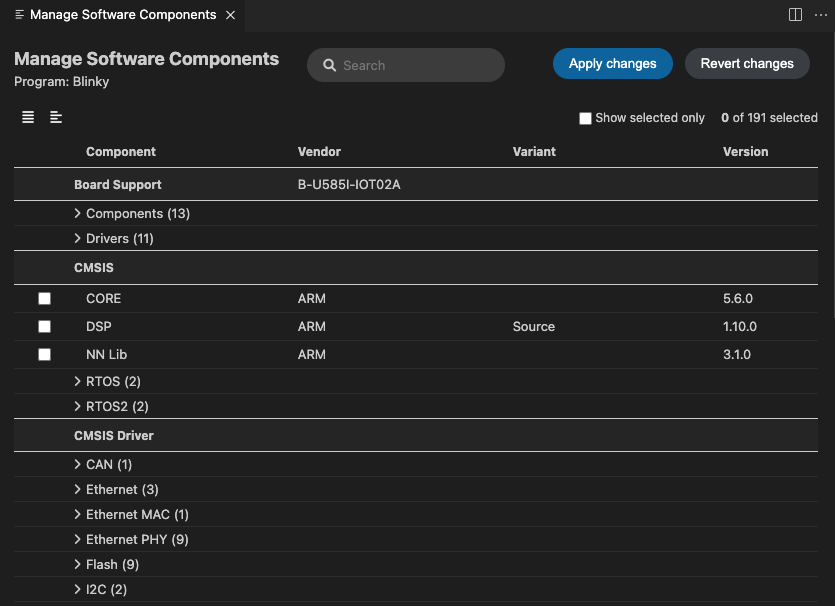
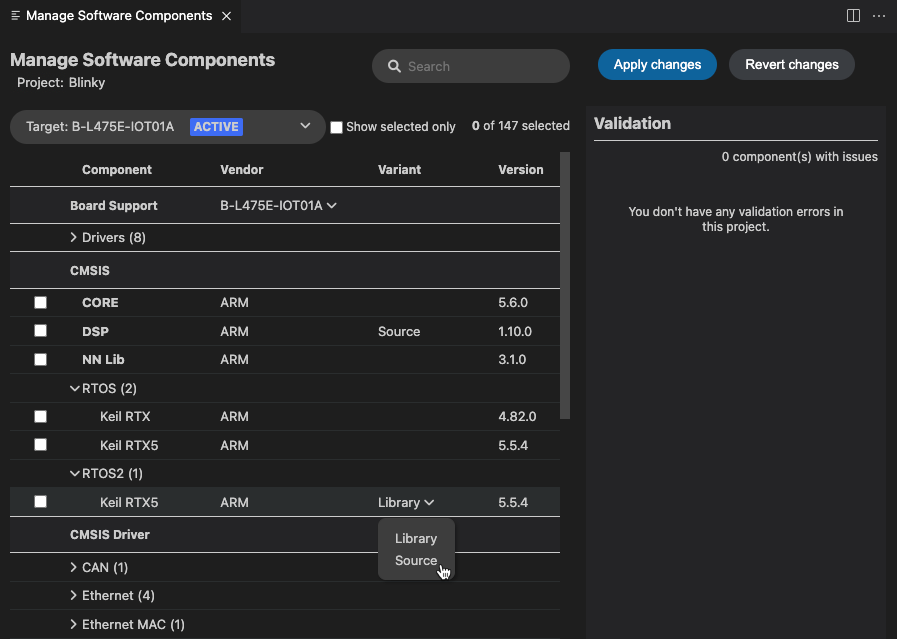
Update file(s) from Arm-Debug/vscode-cmsis-csolution

diff --git a/README.md b/README.md
@@ -309,7 +309,7 @@ Look at the csolution contexts.
 
 1. Go the **PROBLEMS** tab and check for errors.
 
-1. Right-click on the `.cprj` file corresponding to the context you selected and select **Build**.
+1. Right-click the `.cprj` file corresponding to the context you selected and select **Build**.
 
 1. Check the **TERMINAL** tab.
 
@@ -386,9 +386,9 @@ Add CMSIS components with the **Manage Software Components** view. When you add 
 
 **Note**: The **Manage Software Components** view is still under development. To get access to it, select the **Experimental Features** checkbox in the **CMSIS csolution** extension settings.
 
-The **Manage Software Components** view shows all the software components selected in the active CMSIS solution. From this view you can see all the component details (called attributes in the [Open-CMSIS-Pack documentation](https://open-cmsis-pack.github.io/Open-CMSIS-Pack-Spec/main/html/cp_PackTutorial.html#cp_SWComponents)).
+The **Manage Software Components** view shows all the software components selected in the active project of a CMSIS solution. From this view you can see all the component details (called attributes in the [Open-CMSIS-Pack documentation](https://open-cmsis-pack.github.io/Open-CMSIS-Pack-Spec/main/html/cp_PackTutorial.html#cp_SWComponents)).
 You can also:
-- Modify the software components to include in your solution.<!--and manage the dependencies between components-->
+- Modify the software components to include in the project and manage the dependencies between components for each build target  you have defined in your solution.
 - Build the solution using different combinations of pack and component versions, and different versions of a toolchain.
 
 ### Open the Manage Software Components view
@@ -397,19 +397,23 @@ You can also:
 
 1. Click the **CMSIS** icon ![CMSIS icon](./docs/images/cmsis-icon.png) in the Activity Bar to open the **Arm CMSIS csolution** extension.
 
+1. Check the active project selected in the **CONTEXT** panel.
+
 1. Hover over the **CONTEXT** label and click the **Manage software components** icon ![Manage software components](./docs/images/manage-sw-components-icon.png).
 
     The **Manage Software Components** view opens.
 
-By default, this displays the components that are available for use. If you select the **Show selected only** checkbox, only the components included in the active project display.
+By default, the view displays all the components that are available for use. If you select the **Show selected only** checkbox, only the components included in the active project display.
 
 ![The 'Manage Software Components' view showing all the components that are available for use](./docs/images/manage-sw-components-view.png)
+
+With the **Target** drop-down list, you can select components for the different build targets you have in your solution.
 
 The first column in the **Manage Software Components** view shows how many instances of the component are deployed in the project. If the component has a selected checkbox, one instance is deployed. If the checkbox is not selected, it is not deployed in the project. If a number input displays, multiple instances of this component can be deployed to a project.
 
 The CMSIS-Pack specification states that each software component should have the following attributes:
 
-- Component class (Cclass): A top-level component name. For example: **CMSIS**. For a full list of component classes, see [Software Component Cclasses](https://arm-software.github.io/CMSIS_5/Pack/html/cp_Packs.html#pack_Cclass).
+- Component class (Cclass): A top-level component name. For example: **CMSIS**. For a full list of component classes, see [Software Component Cclasses](https://arm-software.github.io/CMSIS_5/Pack/html/cp_Packs.html#pack_Cclass) in the Open-CMSIS-Pack documentation.
 - Component group (Cgroup): A component group name. For example: **CORE** for the **CMSIS** component class.
 - Component version (Cversion): The version number of the software component.
 
@@ -428,9 +432,19 @@ You can add components from all the packs available (it is not limited to the pa
 
 1. Make sure the **Show selected only** checkbox is not selected to display all the components available.
 
+1. Select a build target in the **Target** drop-down list. You can select components for the different build targets defined in the solution.
+
 1. Use the checkboxes to select or clear components as required. If a number input displays instead of a checkbox, it means that multiple instances of this component can be deployed to a project. For some components, you can also select a vendor, variant, or version.
 
-  The **Revert changes** button allows you to revert all your unsaved changes at once.
+1. From the **Validation** panel, you can manage the dependencies between components and solve validation issues.
+
+    Issues are highlighted in red and have an exclamation mark icon ![Issue icon](./docs/images/issue-icon.png) next to them. If there are validation issues, you can either remove conflicting components from your selection or add missing components from a suggested list.
+
+1. If there are validation issues, hover over the issues in the **Validation** panel to get more details and click the issues or the proposed fixes to find the components in the list.
+
+    ![Fix validation issues](./docs/images/component-validation-issues.gif)
+
+    The **Revert changes** button allows you to revert all your unsaved changes at once.
 
 1. Click **Apply changes**.
 

diff --git a/CHANGELOG.md b/CHANGELOG.md
@@ -1,5 +1,12 @@
 # Change Log
 
+## 0.8.0
+
+- Add rebuild option to cbuild task. This cleans output directories before building.
+- Add rebuild command.
+- Fix selection for empty component vendor, variant, version and bundle in manage components.
+- Update csolution YAML schemas to 1.3.0.
+
 ## 0.7.0
 
 - Filter manage components view by target type.
